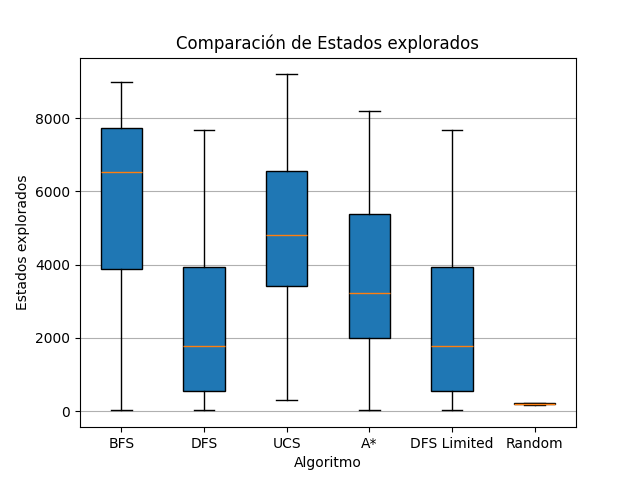
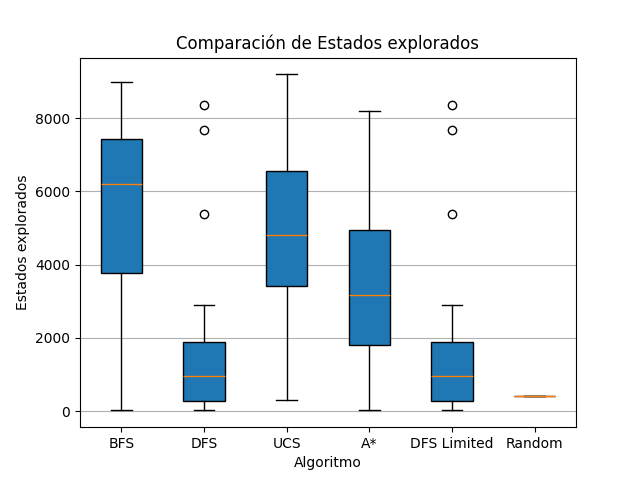
tp4

diff --git a/tp4-busquedas-informadas/code/dfs.py b/tp4-busquedas-informadas/code/dfs.py
@@ -40,7 +40,9 @@ def dfs(env):
                     end_time = time.time()
                     final_time = end_time-start_time
                     first_cost, second_cost = b.calculate_costs(moves)
-                    return path, moves, explored_amount, first_cost, second_cost, final_time, True, nombre
+                    if len(moves) <= 1000: found = True 
+                    else: found = False                    
+                    return path, moves, explored_amount, first_cost, second_cost, final_time, found, nombre
                 
                 frontier.appendleft(child)
 

diff --git a/tp4-busquedas-informadas/code/dfs_limited.py b/tp4-busquedas-informadas/code/dfs_limited.py
@@ -57,7 +57,9 @@ def dfs_limited(env):
                     end_time = time.time()
                     final_time = end_time-start_time
                     first_cost, second_cost = b.calculate_costs(moves)
-                    return path, moves, explored_amount, first_cost, second_cost, final_time, True, nombre
+                    if len(moves) <= 1000: found = True 
+                    else: found = False
+                    return path, moves, explored_amount, first_cost, second_cost, final_time, found, nombre
                 
                 frontier.appendleft(child)
 

diff --git a/tp4-busquedas-informadas/code/random_.py b/tp4-busquedas-informadas/code/random_.py
@@ -40,7 +40,9 @@ def randomm(env):
                     path, moves = solution(child)
                     end_time = time.time()
                     final_time = end_time-start_time
-                    return path, moves, explored_amount, first_cost, second_cost, final_time, True, nombre
+                    if len(moves) <= 1000: found = True 
+                    else: found = False
+                    return path, moves, explored_amount, first_cost, second_cost, final_time, found, nombre
             node = child
         if move > 2000:
             stop = True
